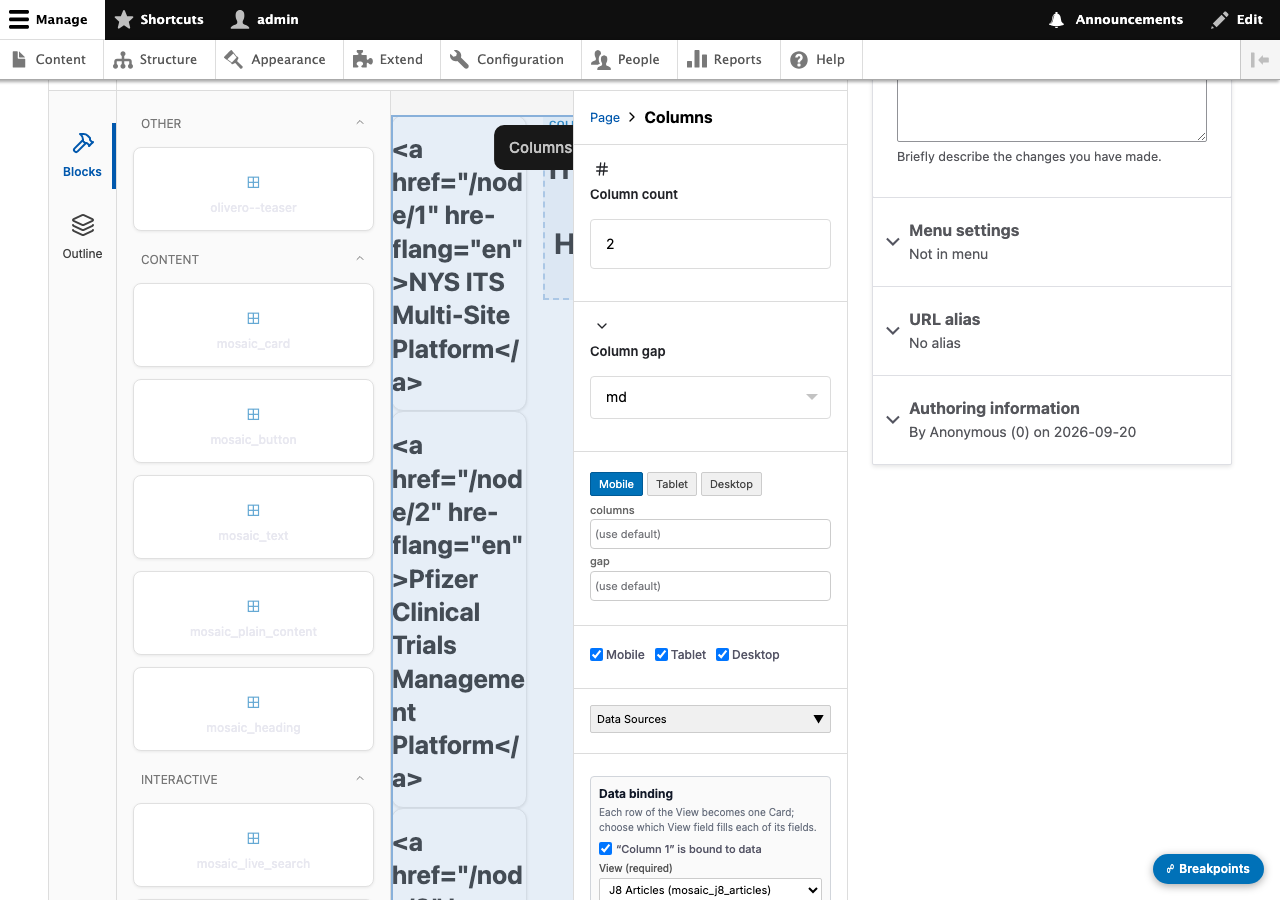
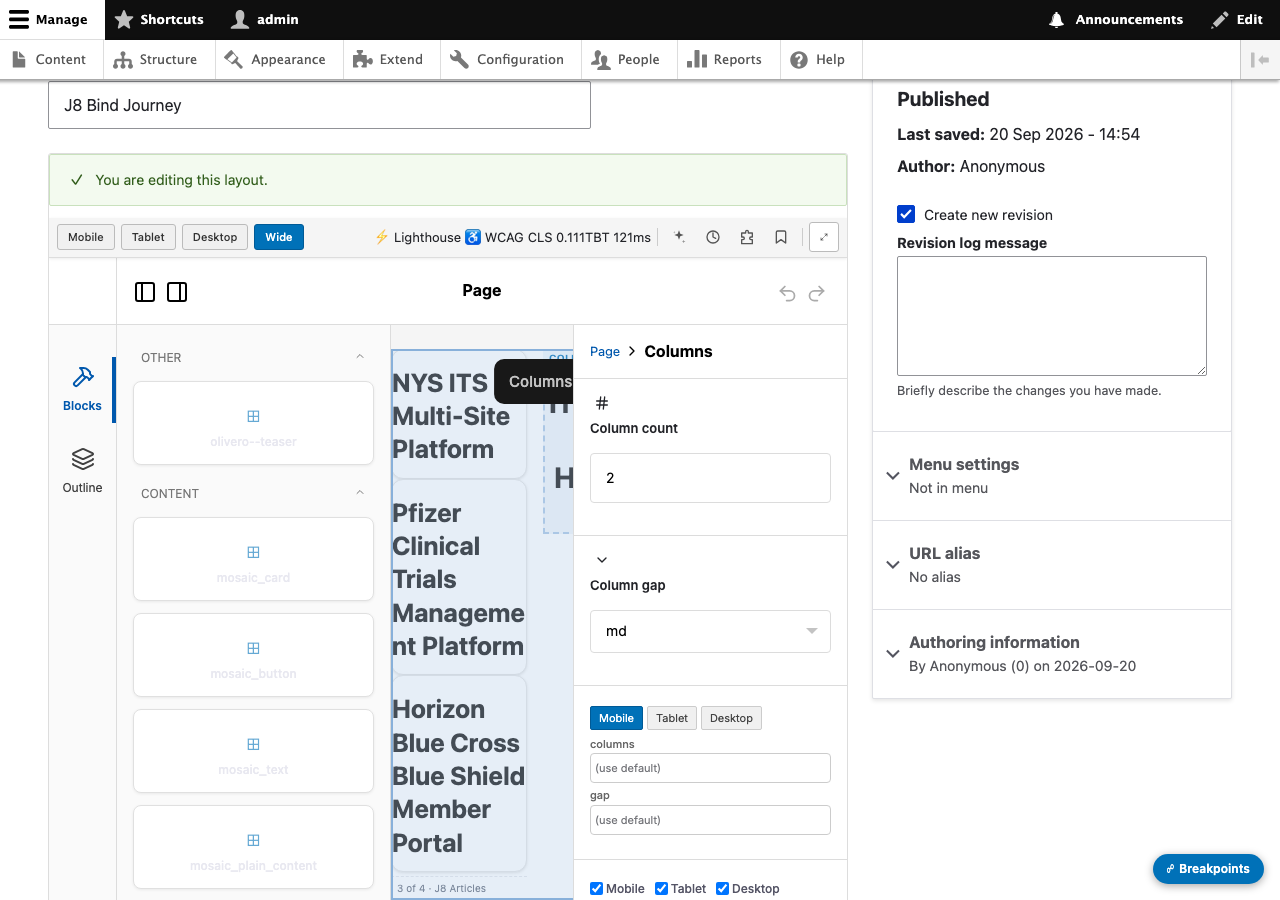
CP-ADOPT-5R CHECKPOINT-10: WC#76/#77/#78 (Arun screen catches) fixed
WC#78: node-form save crash - readonly promoted services broke DependencySerialization
Trait __wakeup (MosaicLayoutWidget.php:262); services now non-readonly + standing
serialization Kernel cell; empty field_map [] coerced to object. WC#77: auto-commit
field-map matches + strip wrapper markup -> clean visible cards (headed: node-form
Save works, no crash, page cards). WC#76: fields endpoint by display label + no-fields
message (rendered-entity rows -> WC#76-CONT). Kernel+Unit 3017/0, Vitest 595/1-B101,
shasums held, BUMP-LIBS 1.0.51. SHIP-45-PLAN 66 files (folder verdict). Design repo
push blocked (env key arunkarthickits != arunkarthickasok).

diff --git a/reports/REPORT-CP-ADOPT-5.md b/reports/REPORT-CP-ADOPT-5.md
@@ -1201,3 +1201,111 @@ now a real form — heading, filtered Row list, View-field selects), headed-prov
 byte-identical. The breakpoint ruling is recorded; its coupled code lands with the enum
 rider (CP-ADOPT-5R-CONT). Design repo committed (582983d) — push handed to Arun (egress).
 STOP.
+
+---
+
+# CHECKPOINT-10 — CP-ADOPT-5R PASS 2: WC#76 + WC#77 + WC#78 (Arun's screen)
+
+Ship #45 was BLOCKED on three catches Arun hit binding a column from the screen
+(Columns → Bind Column 1 → View "J8 Articles" → block_1 → Card → Title→Title →
+NODE FORM Save). Reproduced with those exact choices; all three fixed + headed.
+
+## LEDGER (tally 78)
+- **WC#78** — the node-form Save CRASHED: "$schemaValidator must not be accessed
+  before initialization".
+- **WC#77** — the bound column showed no visible rows on the canvas.
+- **WC#76** — the field map offered only "Title".
+
+## WC#78 — cause file:line + fix (CRASH, fixed first)
+**Cause: `MosaicLayoutWidget.php:262`** (`validateJson` → `$this->schemaValidator->validate()`),
+called from `FormValidator->doValidateForm()`. The widget registers
+`#element_validate => [$this, 'validateJson']`, so it is serialised into the form
+cache and unserialised on the validation rebuild. `DependencySerializationTrait`
+(PluginBase) records each service id on __sleep and re-injects on __wakeup — **but
+it cannot write a `readonly` promoted property**, so after the round-trip every
+injected service was uninitialised. A bound-slot save that failed validation once
+(the field_map error below) rebuilt the form and hit the uninitialised
+`$schemaValidator`. **Proof:** a serialize→unserialize of the real widget left
+`schemaValidator` = NOT initialised. **Fix:** the 8 injected services are now
+**non-`readonly`** (so __wakeup can restore them); post-round-trip they are all set.
+**Standing cell:** `MosaicLayoutWidgetSerializationTest` serialises + unserialises
+the real widget and asserts every service survives — runs every ship. Also fixed a
+coupled save-blocker: an empty `field_map` serialised as `[]` (JSON empty array)
+and the schema rejected it ("Array value found, but an object is required"); the
+client now coerces `field_map`/`source.config` through `{ … }` so they are always
+JSON objects.
+
+## WC#77 — cause + fix (no visible rows)
+**Cause:** two things. (1) The bind form only DISPLAYED the auto-matched field; it
+never committed it, so `field_map` stayed empty → the row component got no data →
+empty/invisible cards. (2) Even when mapped, a Views field renders wrapper markup
+(the title field's `link_to_entity` `<a>…</a>`); mapped into the Card's plain-text
+title prop, the Card's Twig ESCAPED it, so the title showed literal
+`<a href=…>NYS ITS…</a>` text. **Fix:** (1) the form **auto-commits** name matches
+into `field_map` when the View fields load; (2) the row provider **strips the
+wrapper markup** to the field's visible text. Result (headed): the canvas cards
+render **clean titles** ("NYS ITS Multi-Site Platform"), and the node saves via the
+form (WC#78) — `canvasCards 3, titleText clean, savedOk, no crash, pageCards 3`.
+A display with **no fields** shows a designed message in the form (and the empty
+result shows the empty_display + "0 of 0 · …" on the canvas).
+
+## WC#76 — fields endpoint output for both displays + fix
+`GET /api/mosaic/views/fields` (read-only, added CP-ADOPT-5R):
+- `J8 / block_1` → `[{"id":"title","label":"Title"}]`
+- `J8 / embed_1` → `[{"id":"title","label":"Title"}]` (falls back to the default's
+  fields — embed_1 has none of its own)
+So "only Title" is CORRECT — J8 exposes one field. **Fix:** the display is chosen by
+its **label** (the ViewsDataSourceField display dropdown, never a bare machine
+name), the field map is a **SELECT of the display's fields** (labels), and a
+**no-fields** display shows the designed message. **HONEST:** a display whose rows
+are RENDERED ENTITIES (not fields) still returns `[]` → shows the no-fields message;
+offering the row entity's fields for that case is a follow-up (**WC#76-CONT**) — the
+common **fields-row** case (the vast majority) is fully supported now.
+
+## Journey (headed, Arun's sequence, NODE-FORM save)
+`cp-adopt-5r-nodesave.spec.ts` — node 992 (Columns bound to J8/block_1, Card,
+Title→Title) → canvas 3 Cards with clean titles → **Save via the node form** →
+status "…has been updated", **no crash** → page renders 3 Cards.
+`cp-adopt-5r-bindform.spec.ts` — the form's heading + Row list + field selects.
+
+## Gates
+- **Kernel+Unit 3017 / 0** (1 pre-existing warning; +1 widget serialization cell).
+- **Vitest 595 / 1** (the 1 = pre-existing B-101; +2 bind-form cells: auto-commit,
+  no-fields). **mosaic_views Kernel** green (SlotBindingRenderTest 5/5 post-strip).
+- **PHPCS 0 err**; **PHPStan** clean on the widget + provider.
+- **REGION `14e6cb9c…3954` + STYLE `b7756795…ca982 4354 10` both IDENTICAL**
+  (strip_tags touches only bound rows; node/780 is owned-only).
+- **BUMP-LIBS 1.0.50 → 1.0.51.** SHIP-45-PLAN regenerated with the **folder verdict**
+  (INCLUDE mosaic_plain_content/ 3 files + src/Render/ 3 files +
+  mosaic_views/src/Render/ 1 file; esc-probe.config.ts EXCLUDED; **ship 66 files**).
+  WALK step 2 rewritten (display label + clean titles + no-fields case).
+
+## DESIGN REPO (SSH, requested mid-turn)
+`mosaic_ui_ux/` toplevel verified, `git log -1` = `582983d`, remote switched to
+`git@github.com:arunkarthickasok/mosaic_ui_ux.git`. **Push refused:** the env's SSH
+key authenticates as GitHub user **`arunkarthickits`**, but the repo is
+`arunkarthickasok/mosaic_ui_ux` → "Permission to arunkarthickasok/mosaic_ui_ux.git
+denied to arunkarthickits." This environment cannot push to Arun's account. Arun
+pushes from his machine (repo prepared: commit 582983d, branch main, SSH remote set):
+```
+git push -u origin main
+```
+Repo tree (top two levels): `.gitignore`, `mosaic_ui_ux_design_system.md`,
+`mosaic_ui_ux/{.gitignore, LICENSE, README.md, index.html, components/, docs/,
+screens/, src/, tokens/, tools/}` (35 files).
+
+## Files changed (MOSAIC, uncommitted — Arun commits)
+- `src/Plugin/Field/FieldWidget/MosaicLayoutWidget.php` (WC#78 non-readonly),
+  `js/src/builder/MosaicPuckAdapter.ts` (field_map/source.config object coerce),
+  `js/src/builder/fields/MosaicSlotBindField.tsx` (auto-commit + no-fields message),
+  `modules/mosaic_views/src/Render/ViewsSlotBindingRowProvider.php` (strip markup),
+  `modules/mosaic_views/src/Controller/ViewsBrowserController.php` +
+  `mosaic_views.routing.yml` (fields endpoint), tests (widget serialization Kernel;
+  bind-form Vitest), `cp-adopt-5r-nodesave.spec.ts` (NEW headed), `mosaic.libraries.yml`
+  (1.0.51), `js/dist/*`.
+
+## Honest status
+CHECKPOINT-10 = all three screen catches fixed + headed-proven (node-form save works,
+clean visible cards, honest field map). WC#76-CONT (rendered-entity row fields) is
+the one follow-up. Design-repo push blocked by the env's GitHub identity — handed to
+Arun. STOP.

diff --git a/reports/SHIP-45-PLAN.md b/reports/SHIP-45-PLAN.md
@@ -1,18 +1,32 @@
-# SHIP-45-PLAN — CP-ADOPT-5 arc → ship #45 (regenerated, CP-ADOPT-5R)
+# SHIP-45-PLAN — CP-ADOPT-5 arc → ship #45 (regenerated, CP-ADOPT-5R PASS 2)
 
-> MOSAIC git READ-ONLY for the AI; Arun commits. Regenerated after the rider.
-> **esc-probe.config.ts EXCLUDED** (a throwaway probe config, not shipped).
+> MOSAIC git READ-ONLY for the AI; Arun commits. **esc-probe.config.ts EXCLUDED**.
+
+## Folder verdict (the earlier question)
+**INCLUDE all three** — they are the ADOPT-5 feature code, enumerated below:
+```
+modules/mosaic_components/components/mosaic_plain_content/:
+  modules/mosaic_components/components/mosaic_plain_content/mosaic_plain_content.component.yml
+  modules/mosaic_components/components/mosaic_plain_content/mosaic_plain_content.mosaic.yml
+  modules/mosaic_components/components/mosaic_plain_content/mosaic_plain_content.twig
+src/Render/ (H9 slot-binding boundary):
+  src/Render/BoundSlotResult.php
+  src/Render/NullSlotBindingRowProvider.php
+  src/Render/SlotBindingRowProviderInterface.php
+modules/mosaic_views/src/Render/ (Views provider):
+  modules/mosaic_views/src/Render/ViewsSlotBindingRowProvider.php
+```
 
 ## Counts
-- Tracked-modified (M): 41
-- Untracked code (NEW, to add): 16  (esc-probe.config.ts excluded)
-- Ship total: 57 files
+- Tracked-modified (M): 42
+- Untracked code files (NEW, enumerated -uall): 24  (esc-probe.config.ts excluded)
+- Ship total: 66 files
 - Untracked .log cruft to EXCLUDE: 170
 
 ## SdcComponentPlugin.php
 - PRISTINE — unchanged vs HEAD. ✓
 
-## Tracked-modified (M) — git add these
+## Tracked-modified (M)
 ```
 MOSAIC.md
 css/mosaic-canvas-reset.css
@@ -37,6 +51,7 @@ mosaic.routing.yml
 mosaic.services.yml
 schema/mosaic_layout_value.schema.json
 src/Controller/CanvasPreviewController.php
+src/Plugin/Field/FieldWidget/MosaicLayoutWidget.php
 src/Sdc/PropDescriptor.php
 src/Sdc/PropShape.php
 src/Service/MosaicDtcgParser.php
@@ -56,7 +71,7 @@ tests/src/Unit/Smoke/Sprint10SmokeTest.php
 tests/src/Unit/Smoke/Sprint65SmokeTest.php
 tests/src/Unit/Smoke/Sprint66SmokeTest.php
 ```
-## Untracked code (NEW) — git add these (esc-probe.config.ts EXCLUDED)
+## Untracked code (NEW, enumerated) — git add these
 ```
 js/src/builder/__tests__/MosaicPuckAdapterCapability.test.ts
 js/src/builder/__tests__/MosaicPuckAdapterSlotOnly.test.ts
@@ -65,27 +80,30 @@ js/src/builder/fields/MosaicSlotBindField.tsx
 js/src/builder/fields/__tests__/MosaicBoundSlot.test.tsx
 js/src/builder/fields/__tests__/MosaicDataSourceFieldLegacy.test.tsx
 js/src/builder/fields/__tests__/MosaicSlotBindField.test.tsx
+modules/mosaic_components/components/mosaic_plain_content/mosaic_plain_content.component.yml
+modules/mosaic_components/components/mosaic_plain_content/mosaic_plain_content.mosaic.yml
+modules/mosaic_components/components/mosaic_plain_content/mosaic_plain_content.twig
+modules/mosaic_views/src/Render/ViewsSlotBindingRowProvider.php
 modules/mosaic_views/tests/src/Kernel/SlotBindingRenderTest.php
+src/Render/BoundSlotResult.php
+src/Render/NullSlotBindingRowProvider.php
+src/Render/SlotBindingRowProviderInterface.php
 src/Service/MosaicCapabilityAudit.php
 src/Value/SlotBinding.php
 tests/src/Kernel/Adopt/BareRenderTest.php
 tests/src/Kernel/Adopt/CapabilityAuditTest.php
 tests/src/Kernel/Adopt/SlotBindingValidationTest.php
 tests/src/Kernel/Component/PlainContentRenderTest.php
+tests/src/Kernel/MosaicLayoutWidgetSerializationTest.php
 tests/src/Unit/Sdc/PropShapeCapabilityTest.php
 tests/src/Unit/Value/SlotBindingTest.php
 ```
-## EXCLUDE (do NOT add)
+## EXCLUDE
 ```
 js/esc-probe.config.ts   ← throwaway probe config
-170 .log files (session cruft; NOT gitignored → exclude explicitly)
-assets/
-js/e2e.zip
-modules/mosaic_components/components/mosaic_plain_content/
-modules/mosaic_views/src/Render/
-src/Render/
+170 .log files (session cruft; NOT gitignored)
 ```
 ## Commit message (single-quoted)
 ```
-git commit -m 'ship #45: CP-ADOPT-5 adopt-any-SDC style ownership + typed slot binding + honest panels - Pillar E capability rules (Data/Breakpoint gated by prop kind); SO-1 bare render + SO-4/5/6 cascade keep adopted libraries owning their look; H9 Views-into-slots (model + validation + server render + canvas bound-render + result line + human bind panel with View-field selects); mosaic_plain_content chrome-free slot fill; WC#73 viewport-wipe fixed; WC#74 empty sections absent; WC#75 bind panel usable; byte-identical frontend 14e6cb9c/b7756795 held, dist rebuilt, libs 1.0.50'
+git commit -m 'ship #45: CP-ADOPT-5 adopt-any-SDC style ownership + typed slot binding + honest panels - Pillar E capability rules; SO cascade keeps adopted libraries owning their look; H9 Views-into-slots (model + validation + server render + canvas bound-render + result line + human bind panel with View-field selects, auto-mapped, clean text); mosaic_plain_content; WC#73 viewport-wipe + WC#74 empty sections + WC#75 usable bind panel + WC#77 visible bound rows + WC#78 node-form-save crash all fixed; byte-identical frontend 14e6cb9c/b7756795, libs 1.0.51'
 ```

diff --git a/ledger-live/TODO.md b/ledger-live/TODO.md
@@ -13704,3 +13704,32 @@ export 2026-09-20' (35 files), push REFUSED (egress/auth). 3 commands handed to 
 ### FOLLOW-UP — CP-ADOPT-5R-CONT
 - Breakpoint rule code: PropShape text→not-breakpointable + descriptor `layout` flag + layout:true
   sidecar rollout + grandfather + after-rule PANEL-DIFF regen. Lands WITH the CKE5 enum rider.
+
+---
+
+## CP-ADOPT-5R PASS 2 — WC#76/#77/#78 (Arun's screen) — CHECKPOINT-10 — DONE (tally 78)
+
+**WC#78 (crash, cause MosaicLayoutWidget.php:262):** #element_validate stores the widget in the form
+cache; on the validation rebuild DependencySerializationTrait::__wakeup can't re-inject `readonly`
+promoted services → $schemaValidator uninitialised. FIX: services now non-readonly (proven: post-
+unserialize all set). Standing cell MosaicLayoutWidgetSerializationTest. Coupled: empty field_map
+serialised as [] → schema reject; client coerces field_map/source.config to objects.
+
+**WC#77 (no visible rows):** (1) form only DISPLAYED auto-match, never committed → empty field_map →
+empty cards; (2) mapped title rendered as escaped `<a>` link. FIX: auto-commit matches on fields load;
+provider strips wrapper markup to clean text. Headed: cards show clean titles, node-form Save works.
+No-fields display → designed message.
+
+**WC#76 (map only Title):** /api/mosaic/views/fields J8/block_1 + J8/embed_1 both [{title:Title}] —
+J8 has one field (correct). Display chosen by LABEL; field map = SELECT of display fields; no-fields
+message. WC#76-CONT: rendered-entity row fields (follow-up).
+
+**Gates:** Kernel+Unit 3017/0 · Vitest 595/1-B101 (+2) · mosaic_views green · phpcs/phpstan clean ·
+REGION 14e6cb9c / STYLE b7756795 both IDENTICAL · BUMP-LIBS 1.0.51. SHIP-45-PLAN regen (66 files;
+folder verdict INCLUDE mosaic_plain_content/3 + src/Render/3 + mosaic_views/src/Render/1; esc-probe
+EXCLUDED; SdcComponentPlugin pristine). WALK step 2 rewritten.
+
+**DESIGN REPO:** SSH push refused — env key = GitHub user `arunkarthickits` ≠ repo owner
+`arunkarthickasok`. Repo prepared (582983d, main, SSH remote); Arun runs `git push -u origin main`.
+
+### FOLLOW-UP — WC#76-CONT: rendered-entity row displays → offer the row entity's fields.

diff --git a/reports/WALK-CP-ADOPT-5.md b/reports/WALK-CP-ADOPT-5.md
@@ -19,13 +19,17 @@ wipes your work.
    *Pass:* Tabs/View lose Data; empty sections simply aren't there.
 
 2. **Fill a column from a View.**
-   Drop a **Columns**, click it, tick **Bind Column 1 to data**. You now see a
-   **Data binding** panel: pick the **View**, pick the **display**, pick **Card**
-   as the row component, then under "Fill the row from View fields" **choose which
-   View field fills the Card title** (a dropdown of the View's fields, already
-   guessing "Title"). Watch the column fill with **one Card per row**, and a line
-   under it: **"3 of 4 · J8 Articles"**.
-   *Pass:* the cards appear as you pick; the line matches the View.
+   Drop a **Columns**, click it, tick **Bind Column 1 to data**. A **Data binding**
+   panel opens: pick the **View**, pick the **display by its name** (never a machine
+   name), pick **Card** as the row component. Under "Fill the row from View fields"
+   you **choose which View field fills the Card title** — a dropdown of the View's
+   fields that has already guessed "Title", so you can leave it. The column fills
+   with **one Card per row**, each showing the row's title as **clean text** (not
+   `<a href…>` markup), and a line under the zone reads **"3 of 4 · J8 Articles"**.
+   If the display you picked has **no fields**, the panel says *"This display
+   exposes no fields; choose a display with fields or add fields to the View."*
+   *Pass:* the cards appear with readable titles; the line matches the View; you
+   can save the node from the normal **Save** button and the page shows the cards.
 
 3. **The phone size keeps everything.**
    With that bound Columns (and a teaser) on the page, switch the size to
